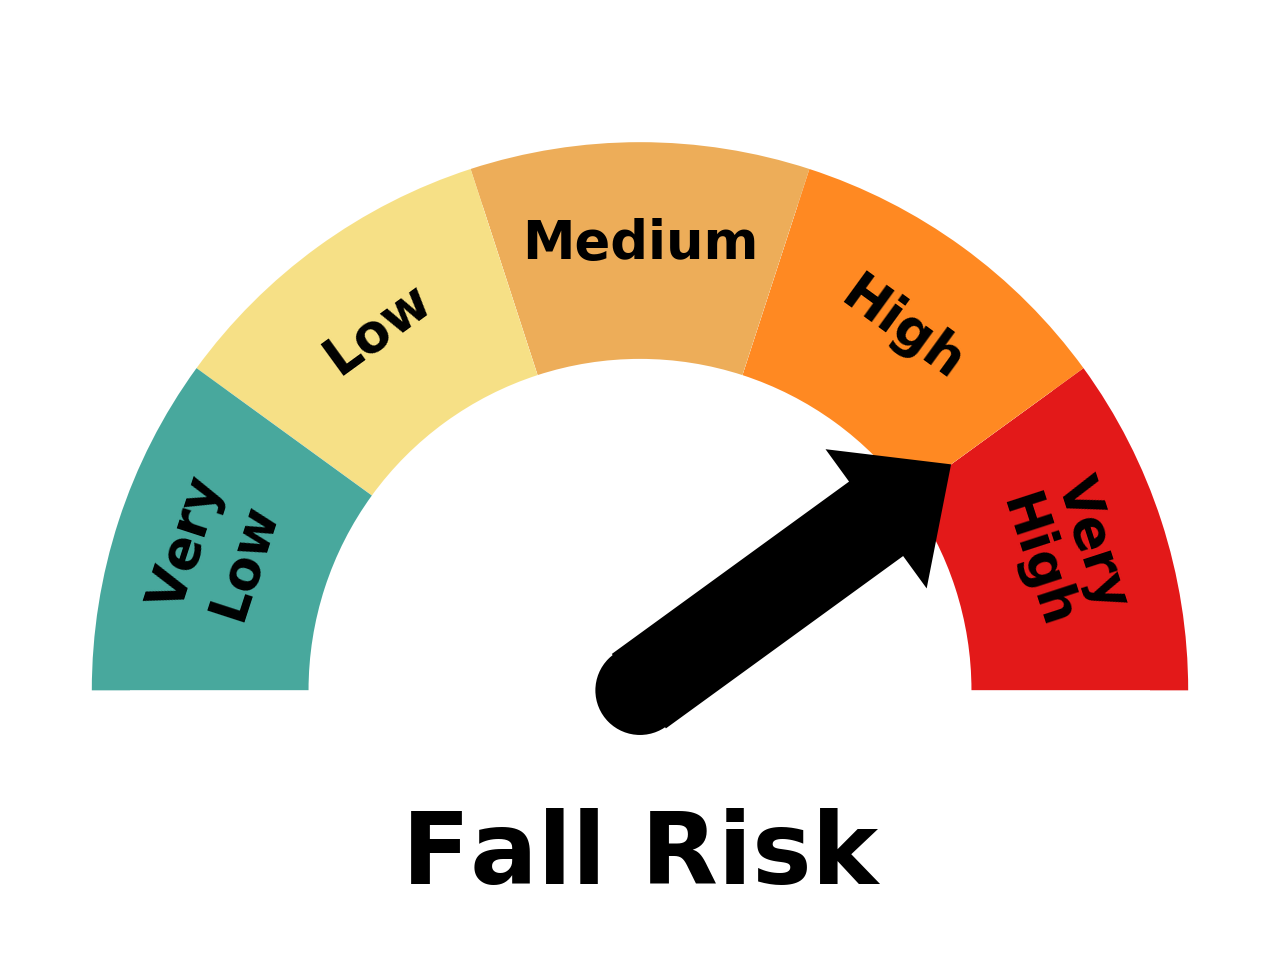
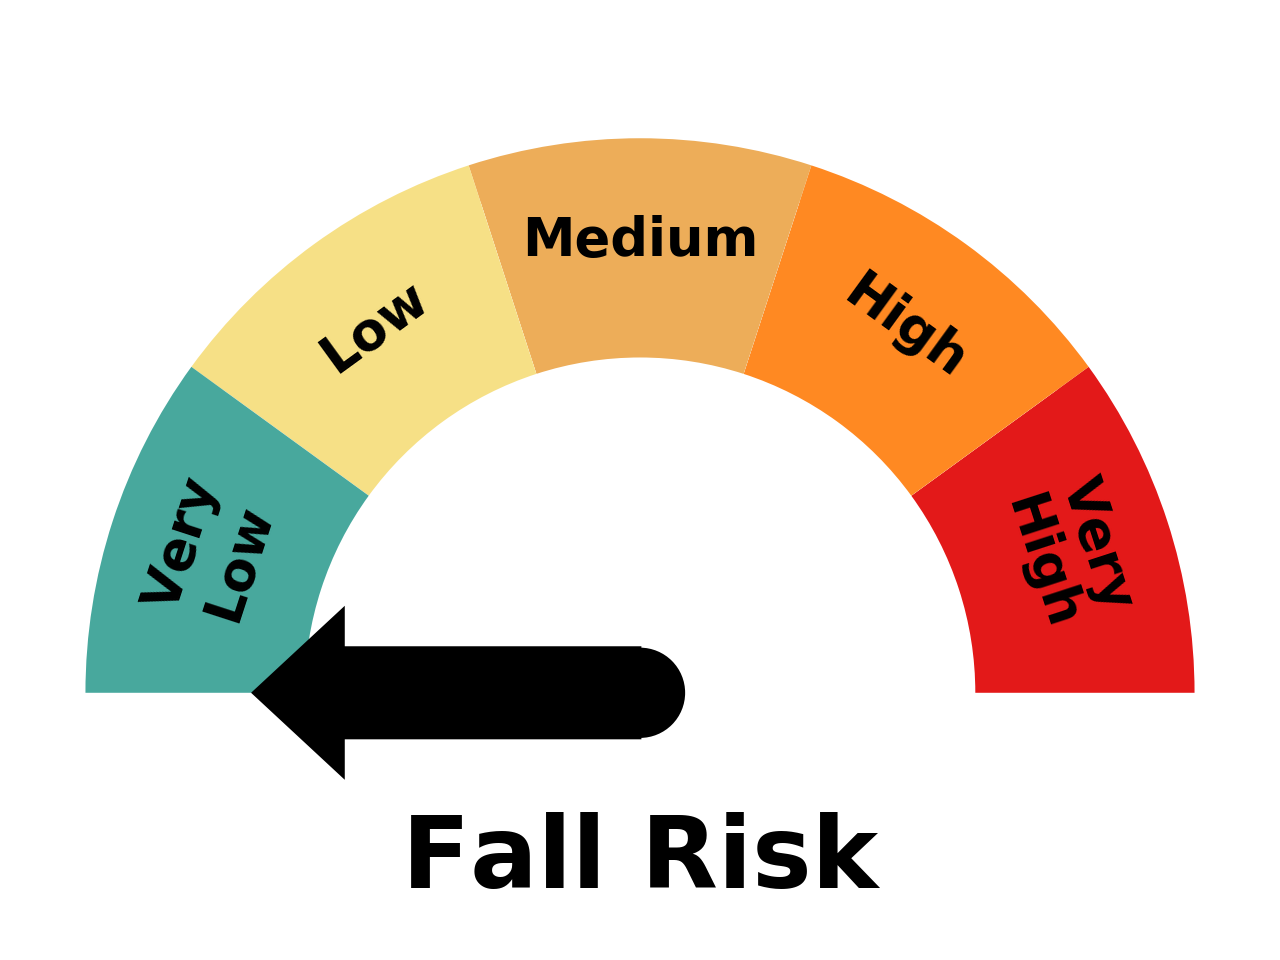
modified UI, incorporated RiskMeter, rearranged a little

diff --git a/WobbleWatch/RiskMeter.py b/WobbleWatch/RiskMeter.py
@@ -1,0 +1,154 @@
+import os, sys
+import matplotlib
+from matplotlib import cm
+from matplotlib import pyplot as plt
+import numpy as np
+from matplotlib.patches import Circle, Wedge, Rectangle
+
+FC_1 = 'w'
+FC_2 = 'w'
+FC_3 = 'w'
+ALPHA_METER = 0.9
+
+class RiskMeter:
+
+    def __init__(self, val, val_max = 1):
+        self.val = val
+        self.fname='assets/meter.png'
+
+        self.cat_names = [  'Very\nLow',
+                            'Low',
+                            'Medium',
+                            'High',
+                            'Very\nHigh'    ]
+
+        self.cat_color = [  "#349F93",
+                            "#F6DD79",
+                            "#EBA447",
+                            "#FF7C0A",
+                            "#E00000"   ]
+
+        self.gauge()
+
+    def update(self, val):
+        self.val = val
+        self.gauge()
+
+    def degree_range(self, n):
+        start = np.linspace(0,180,n+1, endpoint=True)[0:-1]
+        end = np.linspace(0,180,n+1, endpoint=True)[1::]
+        mid_points = start + ((end-start)/2.)
+        return np.c_[start, end], mid_points
+
+    def rot_position(self, val, val_max=1):
+        return 180 * ( 1 - val/val_max )
+
+    def rot_text(self, ang):
+        rotation = np.degrees(np.radians(ang) * np.pi / np.pi - np.radians(90))
+        return rotation
+
+    def gauge(self, val_max = 1, title='Fall Risk'):
+
+        """
+        some sanity checks first
+
+        """
+
+        labels = self.cat_names
+        N = len(labels)
+
+        #if arrow > N:
+        #    raise Exception("\n\nThe category ({}) is greated than \
+        #    the length\nof the labels ({})".format(arrow, N))
+
+
+        """
+        if colors is a string, we assume it's a matplotlib colormap
+        and we discretize in N discrete colors
+        """
+        colors = self.cat_color
+        if isinstance(colors, str):
+            cmap = cm.get_cmap(colors, N)
+            cmap = cmap(np.arange(N))
+            colors = cmap[::-1,:].tolist()
+        if isinstance(colors, list):
+            if len(colors) == N:
+                colors = colors[::-1]
+            else:
+                raise Exception("\n\nnumber of colors {} not equal \
+                to number of categories{}\n".format(len(colors), N))
+
+        """
+        begins the plotting
+        """
+
+        fig, ax = plt.subplots(facecolor=FC_1)
+
+        ang_range, mid_points = self.degree_range(N)
+
+        labels = labels[::-1]
+
+        """
+        plots the sectors and the arcs
+        """
+        patches = []
+        for ang, c in zip(ang_range, colors):
+            # sectors
+            patches.append(Wedge((0.,0.), .4, *ang, facecolor=FC_2, lw=2))
+            # arcs
+            patches.append(Wedge((0.,0.), .43, *ang, width=0.17, facecolor=c, lw=2, alpha=ALPHA_METER))
+
+        [ax.add_patch(p) for p in patches]
+
+
+        """
+        set the labels (e.g. 'LOW','MEDIUM',...)
+        """
+
+        for mid, lab in zip(mid_points, labels):
+
+            ax.text(0.35 * np.cos(np.radians(mid)), 0.35 * np.sin(np.radians(mid)), lab, \
+                horizontalalignment='center', verticalalignment='center', fontsize=19, \
+                fontweight='bold', rotation = self.rot_text(mid))
+
+        """
+        set the bottom banner and the title
+        """
+        r = Rectangle((-0.4,-0.1),0.8,0.1, facecolor=FC_3, lw=2, alpha=0.5)
+        ax.add_patch(r)
+
+        ax.text(0, -0.13, title, horizontalalignment='center', \
+             verticalalignment='center', fontsize=36, fontweight='bold')
+
+        """
+        plots the arrow now
+        """
+
+        #pos = mid_points[abs(arrow - N)]
+        pos = self.rot_position(self.val,val_max)
+
+        l_arrow = 0.23
+        ax.arrow(0, 0,
+                 l_arrow * np.cos(np.radians(pos)),
+                 l_arrow * np.sin(np.radians(pos)),
+                 width=0.07, head_width=0.13, head_length=0.07,
+                 fc='k', ec='k')
+
+        ax.add_patch(Circle((0, 0), radius=0.035, facecolor='k'))
+        #ax.add_patch(Circle((0, 0), radius=0.01, facecolor='w', zorder=11))
+
+        """
+        removes frame and ticks, and makes axis equal and tight
+        """
+
+        ax.set_frame_on(False)
+        ax.axes.set_xticks([])
+        ax.axes.set_yticks([])
+        ax.axis('equal')
+        plt.tight_layout()
+        if self.fname:
+            fig.savefig(self.fname, dpi=200)
+        else:
+            plt.show()
+
+        plt.clf()

diff --git a/app-streamlit.py b/app-streamlit.py
@@ -1,0 +1,85 @@
+import streamlit as st
+import pandas as pd
+import numpy as np
+import matplotlib.pyplot as plt
+import seaborn as sns
+import scipy.stats
+from WobbleWatch.RiskMeter import RiskMeter
+
+def welcome():
+    st.title("WobbleWatch")
+    st.text("Your daily fall risk assessment.")
+
+def load_data():
+    _f = np.array([[-3,-2,-1], [4,1,1], [2,1,5], [3,5,7]])
+    _f = _f.transpose()
+    _c = ["Day", "Adult 1", "Adult 2", "Adult 3"]
+    return pd.DataFrame(_f, columns = _c)
+
+def risk_category(risk):
+    if risk < 1:
+        return "Very Low!"
+    elif risk < 3:
+        return "Low."
+    elif risk < 5:
+        return "Medium."
+    elif risk < 10:
+        return "High."
+    else:
+        return "Very High!"
+
+def risk_change(slope):
+    text = ""
+    if slope > 1:
+        text = "Your risk is growing! You should [intervention]"
+    elif slope < 1:
+        text = "Your risk is dropping! Keep up the good work!"
+    else:
+        text = "Your risk is not changing much."
+        if proj_risk < 3:
+            text += " That's great!"
+        elif proj_risk < 5:
+            text += " That's okay, but you could use some improvement."
+        else:
+            text += " Be careful today."
+    return text
+
+def project_risk(falls, subject):
+    slope, intercept, r_value, p_value, std_err = \
+                scipy.stats.linregress(x=falls['Day'],y=falls[subject])
+
+    plt.title("Stumble Summary")
+    ax = sns.regplot(x = falls["Day"], y = falls[subject],scatter_kws={'s':231})
+    plt.ylabel("Total Stumbles")
+    plt.xlabel("Day")
+    plt.ylim(bottom=0)
+    plt.xticks([-3,-2,-1,0])
+    xlims = ax.get_xlim()
+    new_x = np.arange(xlims[0], xlims[1],(xlims[1]-xlims[0])/100.)
+    ax.plot(new_x, intercept + slope *  new_x, color='c', linestyle='-', lw = 5)
+
+    plt.savefig("assets/projection.png")
+
+    proj_risk = intercept
+    if proj_risk < 0:
+        proj_risk = 0
+
+    text_lines = []
+    text_lines.append("Your risk level is %s" % risk_category(proj_risk))
+    text_lines.append("Your most recent trend suggest %i stumbles today." % proj_risk)
+    text_lines.append(risk_change(slope))
+    return proj_risk, text_lines
+
+
+welcome()
+falls = load_data()
+subject = st.selectbox("Enter today's data (for now choose a subject)", falls.columns[1:])
+
+proj_risk, text_lines = project_risk(falls,subject)
+
+val_max = 10
+rm = RiskMeter(proj_risk / val_max)
+
+st.image("assets/meter.png", use_column_width = True)
+for line in text_lines: st.markdown("<center>" + line + "</center>", unsafe_allow_html = True)
+st.image("assets/projection.png", use_column_width = True)

diff --git a/web/app-streamlit.py b/web/app-streamlit.py
@@ -1,0 +1,73 @@
+import streamlit as st
+import pandas as pd
+import numpy as np
+import matplotlib.pyplot as plt
+import seaborn as sns
+import scipy.stats
+from WobbleWatch.RiskMeter import RiskMeter
+
+def welcome():
+    st.title("WobbleWatch")
+    st.text("Your daily fall risk assessment.")
+
+def load_data():
+    _f = np.array([[-3,-2,-1], [4,1,1], [2,1,5], [3,5,7]])
+    _f = _f.transpose()
+    _c = ["Day", "Adult 1", "Adult 2", "Adult 3"]
+    return pd.DataFrame(_f, columns = _c)
+
+def risk_category(risk):
+    if risk < 1:
+        return "Very Low!"
+    elif risk < 3:
+        return "Low."
+    elif risk < 5:
+        return "Medium."
+    elif risk < 10:
+        return "High."
+    else:
+        return "Very High!"
+
+def risk_change(slope):
+    if slope > 1:
+        st.text("Your risk is growing! You should [intervention]")
+    elif slope < 1:
+        st.text("Your risk is dropping! Keep up the good work!")
+    else:
+        st.text("Your risk is not changing much...")
+        if proj_risk < 3:
+            st.text("... and that's great!")
+        elif proj_risk < 5:
+            st.text("... and that's okay, but you could use some improvement.")
+        else:
+            st.text("... but you should work to bring it down.")
+
+def project_risk(falls, subject, show=False):
+    slope, intercept, r_value, p_value, std_err = \
+                scipy.stats.linregress(x=falls['Day'],y=falls[subject])
+    if show:
+        plt.title("Risk as pre-fall events")
+        ax = sns.regplot(x = falls["Day"], y = falls[subject],scatter_kws={'s':231})
+        plt.ylabel("Pre-fall events")
+        plt.xlabel("Day")
+        plt.ylim(bottom=0)
+        plt.xticks([-3,-2,-1,0])
+        xlims = ax.get_xlim()
+        new_x = np.arange(xlims[0], xlims[1],(xlims[1]-xlims[0])/100.)
+        ax.plot(new_x, intercept + slope *  new_x, color='c', linestyle='-', lw = 5)
+        st.pyplot()
+    proj_risk = intercept
+    if proj_risk < 0:
+        proj_risk = 0
+
+    st.text("Your risk level is %s" % risk_category(proj_risk))
+    st.text("Your most recent trend suggest %i stumbles today." % proj_risk)
+    risk_change(slope)
+
+
+welcome()
+falls = load_data()
+subject = st.selectbox("Enter today's data (for now choose a subject)", falls.columns[1:])
+# _s = st.checkbox("Show prediction plot", key=None)
+st.image("assets/meter.png", use_column_width = True)
+project_risk(falls,subject,show=True)

diff --git a/WobbleWatch/__init__.py b/WobbleWatch/__init__.py
@@ -1,0 +1,1 @@
+__all__ = ["RiskMeter"]
